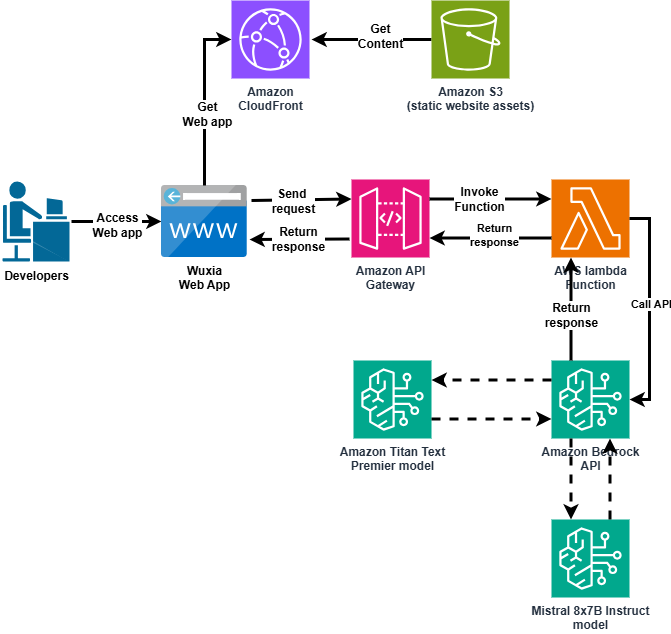
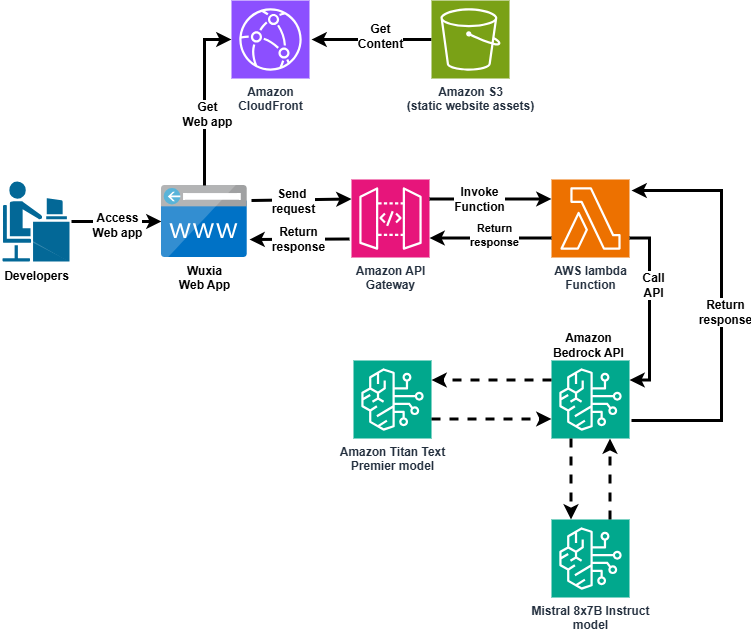
Refresh diagram

Changed region(s): [[0.0, 0.0, 1.0, 1.0], [0.4471, 0.5694, 0.6557, 0.7492]]

diff --git a/README.md b/README.md
@@ -16,7 +16,7 @@ This project demonstrates the use of **Amazon Bedrock** with **AWS Lambda**, **A
 - **Amazon S3** – Serves static web assets (optional)
 - **CloudFront** – CDN to serve content securely via OAC
 
-![Alt text](/images/architecture.png?raw=true "Architecture")
+![Alt text](/images/architecture-white-back.png?raw=true "Architecture")
 
 ---
 
